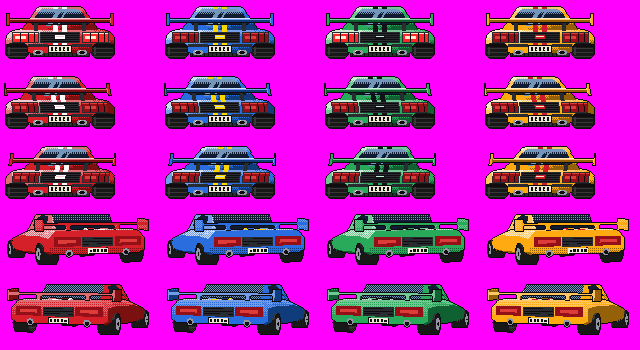
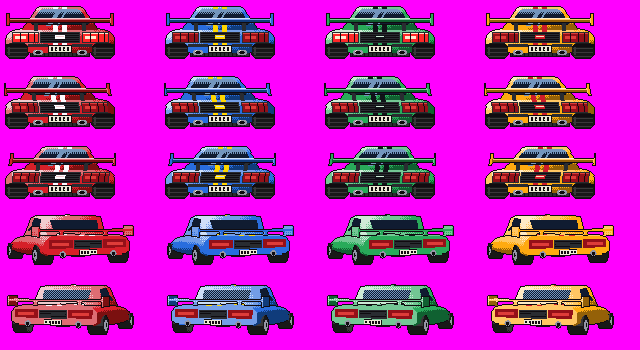
3/4 car views: rounded body with smooth shading and highlights, taller cabin
Claude-Session: https://claude.ai/code/session_01EQeUA4w9GznmEuzCBeZJ1C

Changed region(s): [[0.0, 0.6, 1.0, 0.7714], [0.0, 0.8, 1.0, 0.9714]]

diff --git a/main/game/sprites.cpp b/main/game/sprites.cpp
@@ -214,9 +214,17 @@ static void draw_car_base(Canvas& c) {
     }
 }
 
+#define CAR_USE_MODEL 0
 static void make_car_3q(SpriteId id, int dir);
+static void render_car(SpriteId id, float yaw, float el, bool straight);
 
 static void make_cars() {
+#if CAR_USE_MODEL
+    render_car(SPR_CAR, 0.0f, 0.02f, true);
+    render_car(SPR_CAR_LEFT, 0.17f, 0.03f, false);
+    render_car(SPR_CAR_RIGHT, -0.17f, 0.03f, false);
+    for (int i = SPR_CAR; i <= SPR_CAR_RIGHT; ++i) { g_sprites[i].worldW = i == SPR_CAR ? 700.0f : 700.0f * g_sprites[i].w / CAR_W; g_sprites[i].hitW = 0.95f; }
+#else
     // straight
     {
         Sprite& s = g_sprites[SPR_CAR];
@@ -250,6 +258,7 @@ static void make_cars() {
         g_sprites[i].hitW = 0.95f;
         g_sprites[i].emissive = (1 << C_TAIL) | (1 << C_TAILB);
     }
+#endif
     make_car_3q(SPR_CAR_LEFT3Q, -1);
     make_car_3q(SPR_CAR_RIGHT3Q, +1);
 }
@@ -263,13 +272,13 @@ namespace {
 struct V3 { float x, y, z; };
 enum { MT_BODY = 0, MT_GLASS, MT_TYRE, MT_FLAT };
 enum { PT_NONE = 0, PT_BODY, PT_CABIN, PT_WING, PT_WHEEL, PT_GLASS, PT_RIM };
-struct Tri { V3 p[3]; uint8_t mat, flat, part; float bias; };
-static Tri s_tri[900];
+struct Tri { V3 p[3]; uint8_t mat, flat, part; float bias; bool smooth; V3 n[3]; };
+static Tri s_tri[1400];
 static int s_nt;
 
 static void add_tri(V3 a, V3 b, V3 c, uint8_t mat, uint8_t part, uint8_t flat = 0, float bias = 0) {
-    if (s_nt >= 900) return;
-    s_tri[s_nt++] = { { a, b, c }, mat, flat, part, bias };
+    if (s_nt >= 1400) return;
+    s_tri[s_nt++] = { { a, b, c }, mat, flat, part, bias, false, {} };
 }
 static void add_quad(V3 a, V3 b, V3 c, V3 d, uint8_t mat, uint8_t part, uint8_t flat = 0, float bias = 0) {
     add_tri(a, b, c, mat, part, flat, bias);
@@ -313,48 +322,53 @@ static void add_wheel(float xo, float th, float cy, float cz, float R) {
 static void build_car_model() {
     s_nt = 0;
     // ---- body: lofted octagonal sections        z     hw    ybot  ysh   ytop  tw
-    float B[6][6] = { { 0.00f, 0.93f, 0.20f, 0.48f, 0.62f, 0.80f },
-                                   { 0.45f, 0.96f, 0.17f, 0.51f, 0.64f, 0.82f },
-                                   { 2.10f, 0.95f, 0.15f, 0.50f, 0.61f, 0.78f },
+    float B[6][6] = { { 0.00f, 0.93f, 0.20f, 0.46f, 0.58f, 0.78f },
+                                   { 0.45f, 0.96f, 0.17f, 0.49f, 0.60f, 0.80f },
+                                   { 2.10f, 0.95f, 0.15f, 0.48f, 0.57f, 0.76f },
                                    { 3.30f, 0.89f, 0.15f, 0.42f, 0.52f, 0.68f },
                                    { 4.00f, 0.82f, 0.17f, 0.32f, 0.40f, 0.60f },
                                    { 4.35f, 0.74f, 0.20f, 0.27f, 0.32f, 0.52f } };
     const float ZS = 0.68f;
     for (int k = 0; k < 6; ++k) B[k][0] *= ZS;
-    V3 ring[6][8];
+    const int RN = 12;
+    V3 ring[6][RN];
     for (int k = 0; k < 6; ++k) {
         float z = B[k][0], hw = B[k][1], yb = B[k][2], ys = B[k][3], yt = B[k][4], tw = B[k][5];
-        ring[k][0] = { -hw * 0.88f, yb, z }; ring[k][1] = { -hw, yb + 0.06f, z }; ring[k][2] = { -hw, ys, z };
-        ring[k][3] = { -tw, yt, z };         ring[k][4] = { tw, yt, z };          ring[k][5] = { hw, ys, z };
-        ring[k][6] = { hw, yb + 0.06f, z };  ring[k][7] = { hw * 0.88f, yb, z };
+        float sx = tw + (hw - tw) * 0.40f, sy = yt - (yt - ys) * 0.22f;           // rounded shoulder
+        V3 L[6] = { { -hw * 0.86f, yb, z }, { -hw, yb + 0.06f, z }, { -hw, ys - 0.05f, z }, { -hw * 0.995f, ys, z }, { -sx, sy, z }, { -tw, yt, z } };
+        for (int e = 0; e < 6; ++e) { ring[k][e] = L[e]; ring[k][RN - 1 - e] = { -L[e].x, L[e].y, L[e].z }; }
     }
+    auto body_start = s_nt;
     for (int k = 0; k < 5; ++k)
-        for (int e = 0; e < 8; ++e) {
-            int n = (e + 1) % 8;
+        for (int e = 0; e < RN; ++e) {
+            int n = (e + 1) % RN;
             add_quad(ring[k][e], ring[k][n], ring[k + 1][n], ring[k + 1][e], MT_BODY, PT_BODY);
         }
+    for (int t = body_start; t < s_nt; ++t) s_tri[t].smooth = true;
     for (int k : { 0, 5 }) {                       // end caps
-        V3 c = { 0, 0.42f, B[k][0] };
-        for (int e = 0; e < 8; ++e) add_tri(c, ring[k][e], ring[k][(e + 1) % 8], MT_BODY, PT_BODY);
+        V3 c = { 0, 0.40f, B[k][0] };
+        for (int e = 0; e < RN; ++e) add_tri(c, ring[k][e], ring[k][(e + 1) % RN], MT_BODY, PT_BODY);
     }
     // ---- cabin: trapezoid sections             z     hwb    hwt   ybase  ytop
-    float K[6][5] = { { 0.85f, 0.66f, 0.58f, 0.62f, 0.64f },
-                                   { 1.20f, 0.67f, 0.58f, 0.63f, 0.86f },
-                                   { 2.05f, 0.67f, 0.56f, 0.62f, 0.88f },
-                                   { 2.60f, 0.67f, 0.58f, 0.60f, 0.83f },
-                                   { 3.05f, 0.66f, 0.60f, 0.56f, 0.64f },
-                                   { 3.20f, 0.64f, 0.60f, 0.54f, 0.55f } };
-    for (int k = 0; k < 6; ++k) { K[k][0] *= ZS; if (K[k][4] > 0.8f) K[k][4] += 0.05f; }
+    float K[6][5] = { { 0.85f, 0.72f, 0.64f, 0.58f, 0.60f },
+                                   { 1.20f, 0.74f, 0.64f, 0.59f, 0.97f },
+                                   { 2.05f, 0.74f, 0.62f, 0.58f, 1.00f },
+                                   { 2.60f, 0.72f, 0.62f, 0.56f, 0.92f },
+                                   { 3.05f, 0.70f, 0.64f, 0.52f, 0.60f },
+                                   { 3.20f, 0.66f, 0.62f, 0.50f, 0.51f } };
+    for (int k = 0; k < 6; ++k) { K[k][0] *= ZS; }
     V3 cr[6][4];
     for (int k = 0; k < 6; ++k) {
         cr[k][0] = { -K[k][1], K[k][3], K[k][0] }; cr[k][1] = { -K[k][2], K[k][4], K[k][0] };
         cr[k][2] = { K[k][2], K[k][4], K[k][0] };  cr[k][3] = { K[k][1], K[k][3], K[k][0] };
     }
+    int cab_start = s_nt;
     for (int k = 0; k < 5; ++k)
         for (int e = 0; e < 3; ++e) {
-            bool glassTop = (e == 1 && (k == 0 || k == 4));     // rear glass and windscreen
+            bool glassTop = (e == 1 && k == 4);     // rear glass and windscreen
             add_quad(cr[k][e], cr[k][e + 1], cr[k + 1][e + 1], cr[k + 1][e], glassTop ? MT_GLASS : MT_BODY, glassTop ? PT_GLASS : PT_CABIN);
         }
+    for (int t = cab_start; t < s_nt; ++t) s_tri[t].smooth = true;
     // pillars around the glass are the body colour: draw the glass inset by shrinking it towards the centre
     // (rear glass inset decal)
     {
@@ -424,29 +438,61 @@ static void build_car_model() {
         add_quad({ -0.16f + k * 0.07f, 0.23f, zr - 0.006f }, { -0.115f + k * 0.07f, 0.23f, zr - 0.006f },
                  { -0.115f + k * 0.07f, 0.28f, zr - 0.006f }, { -0.16f + k * 0.07f, 0.28f, zr - 0.006f }, MT_FLAT, PT_BODY, C_OUT, -0.013f);
     // ---- wing: plate, end plates, uprights
-    add_box(-1.02f, 1.02f, 0.70f, 0.755f, 0.06f, 0.42f, MT_BODY, PT_WING);
-    add_box(-1.04f, -1.00f, 0.60f, 0.82f, 0.04f, 0.46f, MT_BODY, PT_WING);
-    add_box(1.00f, 1.04f, 0.60f, 0.82f, 0.04f, 0.46f, MT_BODY, PT_WING);
-    add_box(-0.52f, -0.44f, 0.62f, 0.70f, 0.18f, 0.28f, MT_BODY, PT_WING);
-    add_box(0.44f, 0.52f, 0.62f, 0.70f, 0.18f, 0.28f, MT_BODY, PT_WING);
+    add_box(-1.02f, 1.02f, 0.66f, 0.715f, 0.06f, 0.42f, MT_BODY, PT_WING);
+    add_box(-1.04f, -1.00f, 0.56f, 0.78f, 0.04f, 0.46f, MT_BODY, PT_WING);
+    add_box(1.00f, 1.04f, 0.56f, 0.78f, 0.04f, 0.46f, MT_BODY, PT_WING);
+    add_box(-0.52f, -0.44f, 0.58f, 0.66f, 0.18f, 0.28f, MT_BODY, PT_WING);
+    add_box(0.44f, 0.52f, 0.58f, 0.66f, 0.18f, 0.28f, MT_BODY, PT_WING);
     // ---- wheels
     for (int sd = -1; sd <= 1; sd += 2) {
         add_wheel(sd * 0.99f, 0.32f, 0.20f, 0.36f, 0.20f);
         add_wheel(sd * 0.90f, 0.28f, 0.185f, 3.55f * ZS, 0.185f);
     }
+    // smooth normals: average the (outward) face normals of the lofted shells at each shared vertex
+    struct Acc { int x, y, z; V3 n; };
+    static Acc acc[1400 * 3];
+    int na = 0;
+    auto key = [](V3 p, int& kx, int& ky, int& kz) { kx = (int)lroundf(p.x * 500); ky = (int)lroundf(p.y * 500); kz = (int)lroundf(p.z * 500); };
+    for (int pass = 0; pass < 2; ++pass)
+        for (int t = 0; t < s_nt; ++t) {
+            Tri& T = s_tri[t];
+            if (!T.smooth) continue;
+            V3 u = { T.p[1].x - T.p[0].x, T.p[1].y - T.p[0].y, T.p[1].z - T.p[0].z }, v = { T.p[2].x - T.p[0].x, T.p[2].y - T.p[0].y, T.p[2].z - T.p[0].z };
+            V3 n = { u.y * v.z - u.z * v.y, u.z * v.x - u.x * v.z, u.x * v.y - u.y * v.x };
+            float nl = sqrtf(n.x * n.x + n.y * n.y + n.z * n.z);
+            if (nl < 1e-9f) continue;
+            n = { n.x / nl, n.y / nl, n.z / nl };
+            V3 c = { (T.p[0].x + T.p[1].x + T.p[2].x) / 3, (T.p[0].y + T.p[1].y + T.p[2].y) / 3, (T.p[0].z + T.p[1].z + T.p[2].z) / 3 };
+            V3 ctr = T.part == PT_CABIN || T.part == PT_GLASS ? V3{ 0, 0.55f, c.z } : V3{ 0, 0.30f, c.z };      // push away from the axis
+            if (n.x * (c.x - ctr.x) + n.y * (c.y - ctr.y) < 0) n = { -n.x, -n.y, -n.z };
+            for (int k = 0; k < 3; ++k) {
+                int kx, ky, kz; key(T.p[k], kx, ky, kz);
+                if (pass == 0) {
+                    int f = -1;
+                    for (int a = 0; a < na; ++a) if (acc[a].x == kx && acc[a].y == ky && acc[a].z == kz) { f = a; break; }
+                    if (f < 0) { f = na++; acc[f] = { kx, ky, kz, { 0, 0, 0 } }; }
+                    acc[f].n = { acc[f].n.x + n.x, acc[f].n.y + n.y, acc[f].n.z + n.z };
+                } else {
+                    for (int a = 0; a < na; ++a) if (acc[a].x == kx && acc[a].y == ky && acc[a].z == kz) {
+                        float l = sqrtf(acc[a].n.x * acc[a].n.x + acc[a].n.y * acc[a].n.y + acc[a].n.z * acc[a].n.z) + 1e-9f;
+                        T.n[k] = { acc[a].n.x / l, acc[a].n.y / l, acc[a].n.z / l };
+                        break;
+                    }
+                }
+            }
+        }
 }
 
 // rasterised result of one view
 struct Shot { int w, h; float ax, lightL, lightR; };
 } // namespace
 
-static void make_car_3q(SpriteId id, int dir) {
+static void render_car(SpriteId id, float yaw, float el, bool straight) {
     Sprite& s = g_sprites[id];
     build_car_model();
-    const float yaw = (dir < 0 ? 1.0f : -1.0f) * 0.40f;      // nose to the left for a left turn
     const float ca = cosf(yaw), sa = sinf(yaw);
-    const float el = 0.07f, ce = cosf(el), se = sinf(el);
-    const float D = 15.0f, F = 56.0f * D;
+    const float ce = cosf(el), se = sinf(el);
+    const float D = 15.0f, F = 50.0f * D;
     struct P2 { float x, y, z; };
     auto proj = [&](V3 p, P2& o, V3* world = nullptr) {
         float x = p.x * ca - p.z * sa, z = p.x * sa + p.z * ca, y = p.y;
@@ -454,48 +500,57 @@ static void make_car_3q(SpriteId id, int dir) {
         float zc = z * ce - y * se + D;
         o = { F * x / zc, -F * (y * ce + z * se) / zc, zc };
     };
-    // bounding box
     float mnx = 1e9f, mxx = -1e9f;
     for (int t = 0; t < s_nt; ++t) for (int k = 0; k < 3; ++k) { P2 o; proj(s_tri[t].p[k], o); mnx = fminf(mnx, o.x); mxx = fmaxf(mxx, o.x); }
     P2 ground; proj({ 0, 0, 0 }, ground);
-    const int CW = (int)ceilf(mxx - mnx) + 6;
-    const float ox = 3.0f - mnx, oy = 51.0f - ground.y;
+    const int CW = straight ? CAR_W : (int)ceilf(mxx - mnx) + 6;
+    const float ox = straight ? CW * 0.5f : 3.0f - mnx, oy = 51.0f - ground.y;
     Canvas c(s, CW, CAR_H);
     const int H = CAR_H;
     float* zb = (float*)plat::allocLarge(CW * H * sizeof(float));
     uint8_t* part = (uint8_t*)plat::allocLarge(CW * H);
     uint8_t* col = (uint8_t*)plat::allocLarge(CW * H);
     for (int i = 0; i < CW * H; ++i) { zb[i] = 1e9f; part[i] = 0; col[i] = 0; }
-    // lighting
-    float Lx = -0.30f, Ly = 0.78f, Lz = -0.50f; { float l = sqrtf(Lx * Lx + Ly * Ly + Lz * Lz); Lx /= l; Ly /= l; Lz /= l; }
+    float Lx = -0.34f, Ly = 0.62f, Lz = -0.55f; { float l = sqrtf(Lx * Lx + Ly * Ly + Lz * Lz); Lx /= l; Ly /= l; Lz /= l; }
+    // half vector for the highlight (viewer straight behind the car)
+    float Hx = Lx, Hy = Ly, Hz = Lz - 1.0f; { float l = sqrtf(Hx * Hx + Hy * Hy + Hz * Hz); Hx /= l; Hy /= l; Hz /= l; }
     static const float bay[4] = { 0.0f, 0.5f, 0.75f, 0.25f };
 
     for (int t = 0; t < s_nt; ++t) {
         const Tri& T = s_tri[t];
         P2 q[3]; V3 w[3];
         for (int k = 0; k < 3; ++k) proj(T.p[k], q[k], &w[k]);
-        // face normal (world), oriented towards the camera
         V3 u = { w[1].x - w[0].x, w[1].y - w[0].y, w[1].z - w[0].z }, v = { w[2].x - w[0].x, w[2].y - w[0].y, w[2].z - w[0].z };
-        V3 n = { u.y * v.z - u.z * v.y, u.z * v.x - u.x * v.z, u.x * v.y - u.y * v.x };
-        float nl = sqrtf(n.x * n.x + n.y * n.y + n.z * n.z);
+        V3 fn = { u.y * v.z - u.z * v.y, u.z * v.x - u.x * v.z, u.x * v.y - u.y * v.x };
+        float nl = sqrtf(fn.x * fn.x + fn.y * fn.y + fn.z * fn.z);
         if (nl < 1e-9f) continue;
-        n = { n.x / nl, n.y / nl, n.z / nl };
+        fn = { fn.x / nl, fn.y / nl, fn.z / nl };
         V3 cen = { (w[0].x + w[1].x + w[2].x) / 3, (w[0].y + w[1].y + w[2].y) / 3, (w[0].z + w[1].z + w[2].z) / 3 };
         V3 toCam = { -cen.x, 1.6f - cen.y, -D - cen.z };
-        if (n.x * toCam.x + n.y * toCam.y + n.z * toCam.z < 0) n = { -n.x, -n.y, -n.z };
-        float d = fmaxf(0.0f, n.x * Lx + n.y * Ly + n.z * Lz);
+        if (fn.x * toCam.x + fn.y * toCam.y + fn.z * toCam.z < 0) fn = { -fn.x, -fn.y, -fn.z };
         float bv[3];
         for (int k = 0; k < 3; ++k) {
-            float grad = (0.62f - T.p[k].y) * 0.42f;                  // darker towards the ground
-            bv[k] = 0.14f + 0.74f * d - (grad > 0 ? grad : grad * 0.4f);
+            V3 n = fn;
+            if (T.smooth) {                                  // rotate the model-space vertex normal into the world
+                V3 m = T.n[k];
+                n = { m.x * ca - m.z * sa, m.y, m.x * sa + m.z * ca };
+                if (n.x * fn.x + n.y * fn.y + n.z * fn.z < 0.2f) n = fn;      // safety on creases
+            }
+            float d = fmaxf(0.0f, n.x * Lx + n.y * Ly + n.z * Lz);
+            float sp = fmaxf(0.0f, n.x * Hx + n.y * Hy + n.z * Hz);
+            sp = sp * sp; sp = sp * sp; sp = sp * sp; sp = sp * sp;           // ^16
+            float grad = (0.62f - T.p[k].y) * 0.42f;                          // darker towards the ground
+            bv[k] = 0.14f + 0.74f * d - (grad > 0 ? grad : grad * 0.4f) + (T.mat == MT_FLAT ? 0.0f : 0.38f * sp);
         }
-        // screen-space triangle
         float x0 = q[0].x + ox, y0 = q[0].y + oy, x1 = q[1].x + ox, y1 = q[1].y + oy, x2 = q[2].x + ox, y2 = q[2].y + oy;
         float area = (x1 - x0) * (y2 - y0) - (x2 - x0) * (y1 - y0);
         if (fabsf(area) < 1e-6f) continue;
         int xmin = (int)floorf(fminf(x0, fminf(x1, x2))), xmax = (int)ceilf(fmaxf(x0, fmaxf(x1, x2)));
         int ymin = (int)floorf(fminf(y0, fminf(y1, y2))), ymax = (int)ceilf(fmaxf(y0, fmaxf(y1, y2)));
-        if (xmin < 0) xmin = 0; if (ymin < 0) ymin = 0; if (xmax > CW - 1) xmax = CW - 1; if (ymax > H - 1) ymax = H - 1;
+        if (xmin < 0) xmin = 0;
+        if (ymin < 0) ymin = 0;
+        if (xmax > CW - 1) xmax = CW - 1;
+        if (ymax > H - 1) ymax = H - 1;
         for (int y = ymin; y <= ymax; ++y)
             for (int x = xmin; x <= xmax; ++x) {
                 float px = x + 0.5f, py = y + 0.5f;
@@ -513,15 +568,14 @@ static void make_car_3q(SpriteId id, int dir) {
                 uint8_t o;
                 switch (T.mat) {
                 case MT_BODY:  o = dv > 0.80f ? C_SPEC : dv > 0.52f ? C_BL : dv > 0.22f ? C_BM : C_BD; break;
-                case MT_GLASS: o = (dv > 0.74f && ((x + y) & 1) == 0) || dv > 1.0f ? C_GL : C_GD; break;
+                case MT_GLASS: o = (dv > 0.95f && ((x + y) & 1) == 0) || dv > 1.3f ? C_GL : C_GD; break;
                 case MT_TYRE:  o = dv > 0.60f ? C_TYL : C_TY; break;
                 default:       o = T.flat; break;
                 }
                 col[idx] = o;
             }
     }
-    // composite: soft ground shadow first, then the car with dark outlines on the nearer parts
-    c.ellipse(CW * 0.5f + 4, 53.5f, CW * 0.46f, 4.2f, SHADOW);
+    c.ellipse(CW * 0.5f + (straight ? 0 : 4), 53.5f, CW * 0.46f, 4.2f, SHADOW);
     for (int y = 0; y < H; ++y)
         for (int x = 0; x < CW; ++x) {
             int i = y * CW + x;
@@ -542,10 +596,13 @@ static void make_car_3q(SpriteId id, int dir) {
     s.worldW = 700.0f * CW / CAR_W;
     s.hitW = 0.95f;
     s.emissive = (1 << C_TAIL) | (1 << C_TAILB);
-    s.anchorX = (int16_t)lroundf(rc.x + ox);
-    s.lightL = (int16_t)lroundf(fminf(tl.x, tr.x) + ox);
-    s.lightR = (int16_t)lroundf(fmaxf(tl.x, tr.x) + ox);
+    s.anchorX = straight ? 0 : (int16_t)lroundf(rc.x + ox);
+    s.lightL = straight ? 0 : (int16_t)lroundf(fminf(tl.x, tr.x) + ox);
+    s.lightR = straight ? 0 : (int16_t)lroundf(fmaxf(tl.x, tr.x) + ox);
+    if (!straight && yaw > -0.3f && yaw < 0.3f) { /* mild turn: same placement rules as the 3/4 views */ }
 }
+
+static void make_car_3q(SpriteId id, int dir) { render_car(id, (dir < 0 ? 1.0f : -1.0f) * 0.40f, 0.07f, false); }
 
 void car_palette(uint16_t out[16], const Livery& l, bool braking) {
     out[0] = 0;
